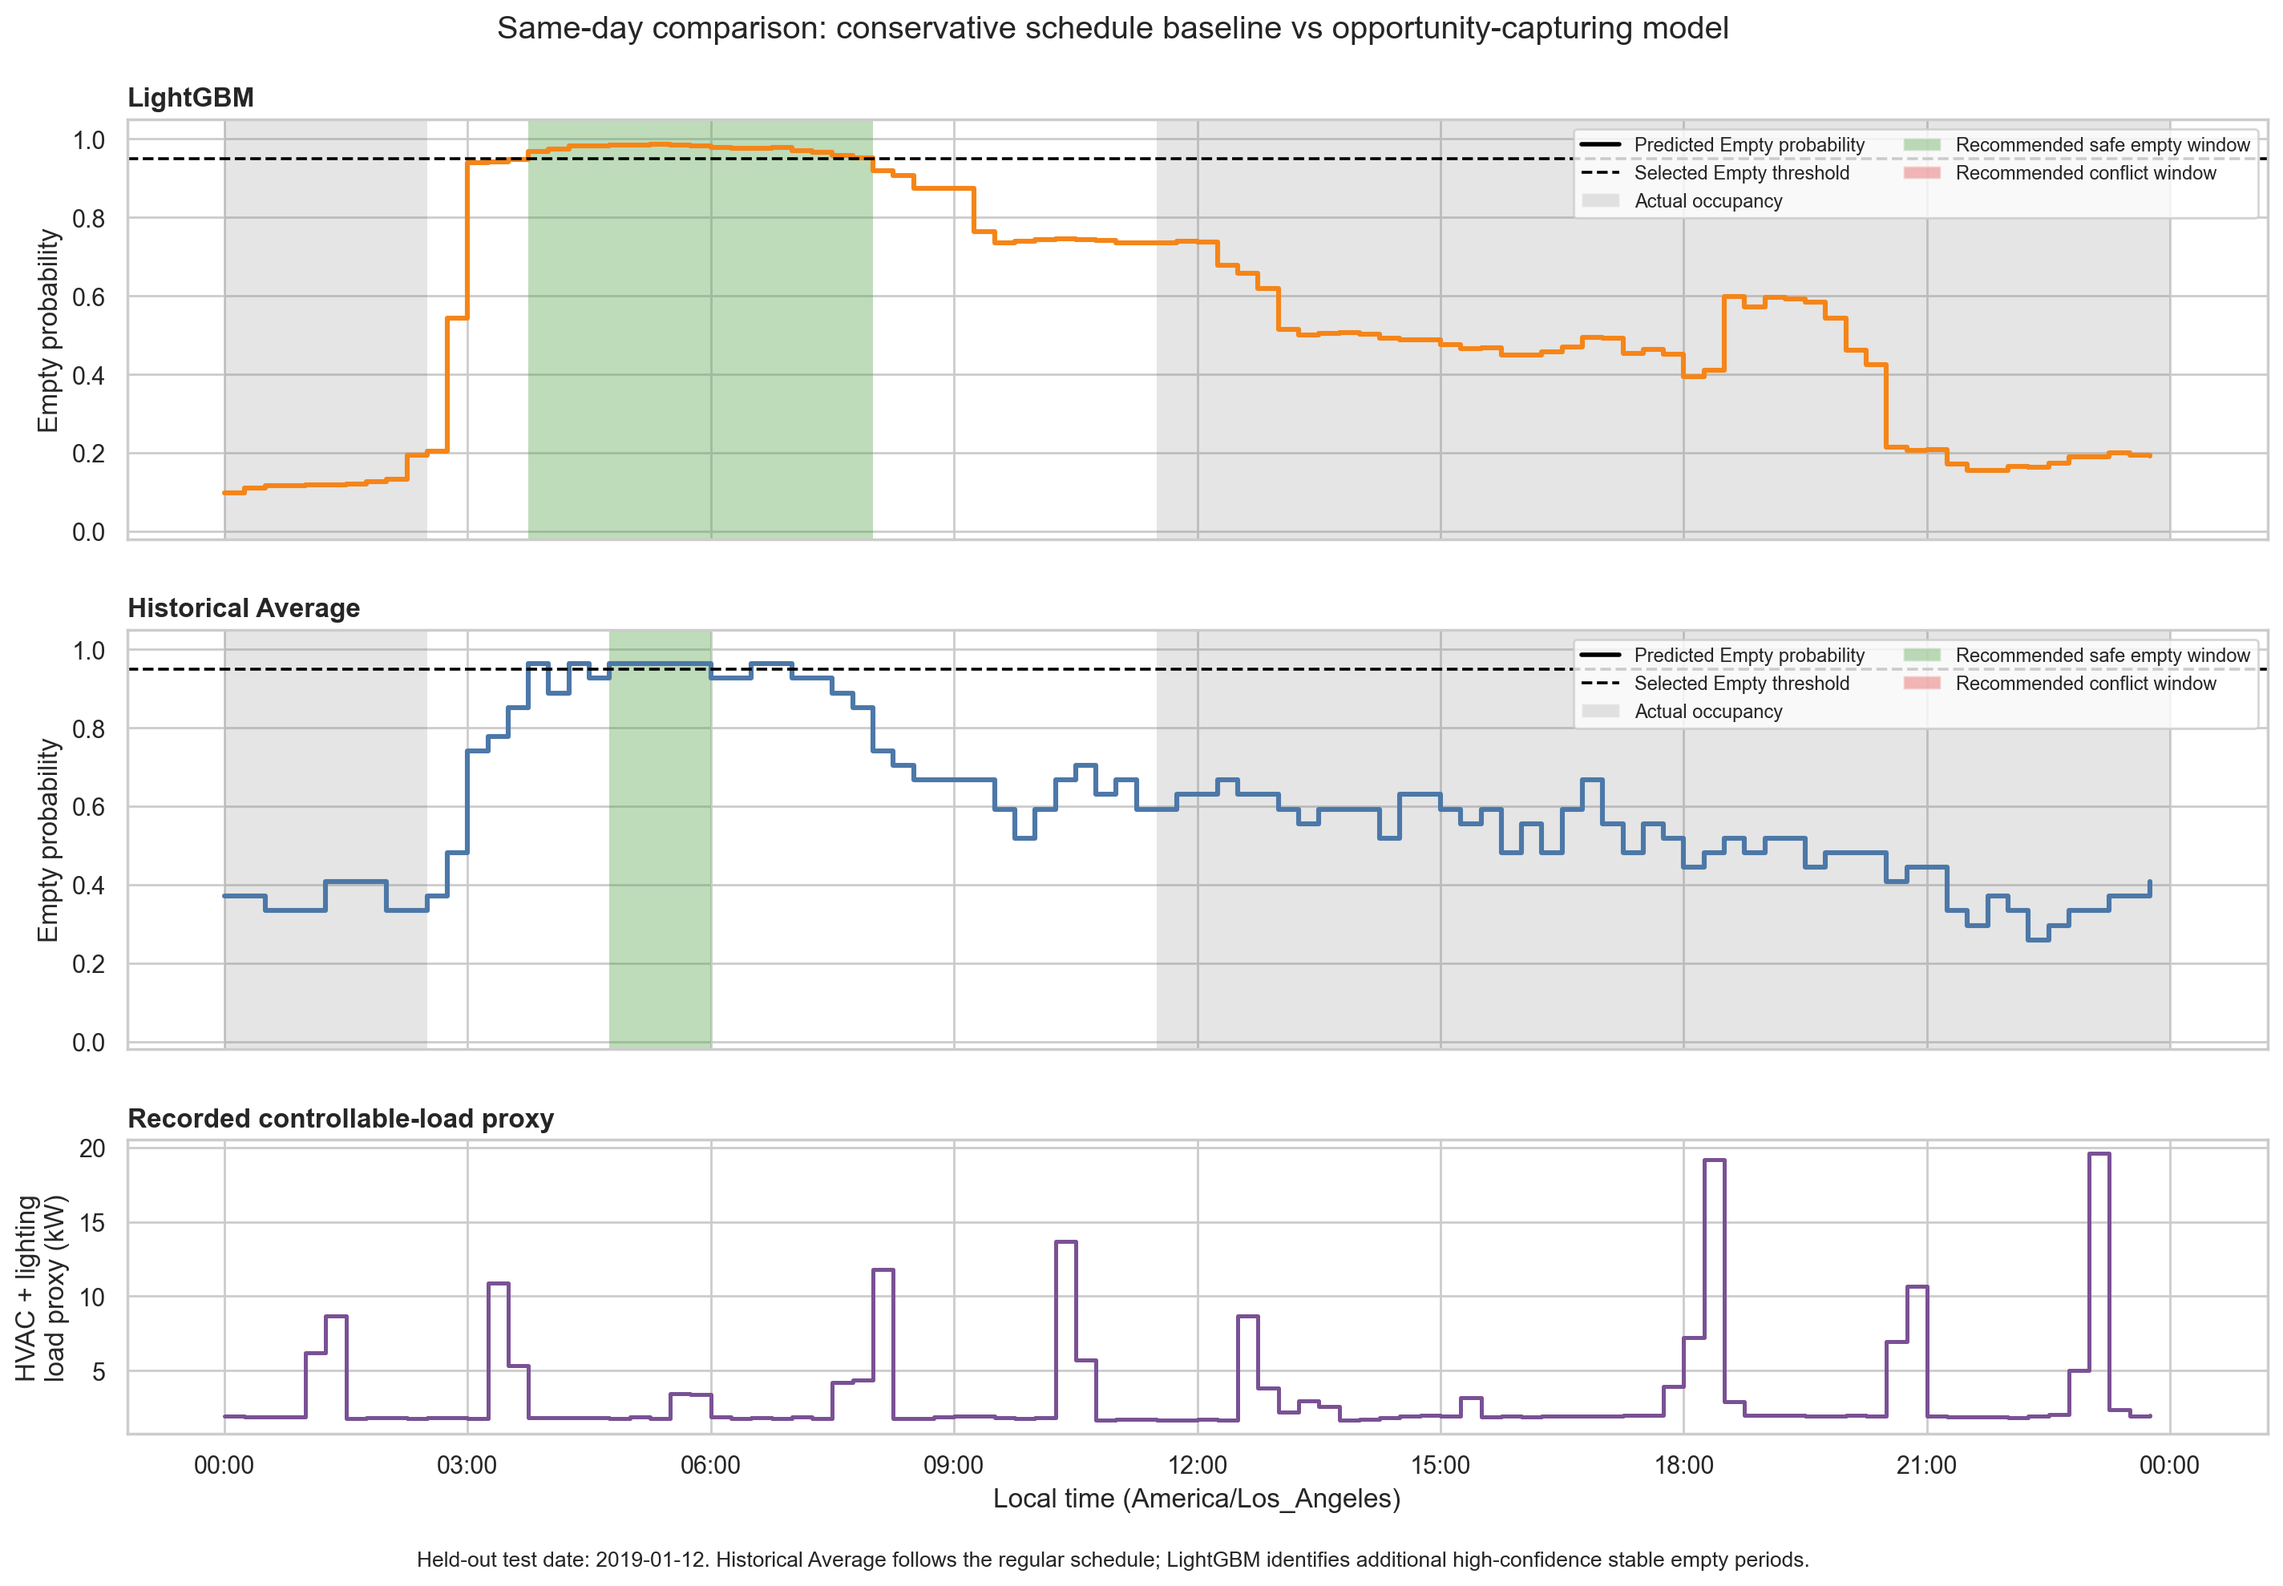
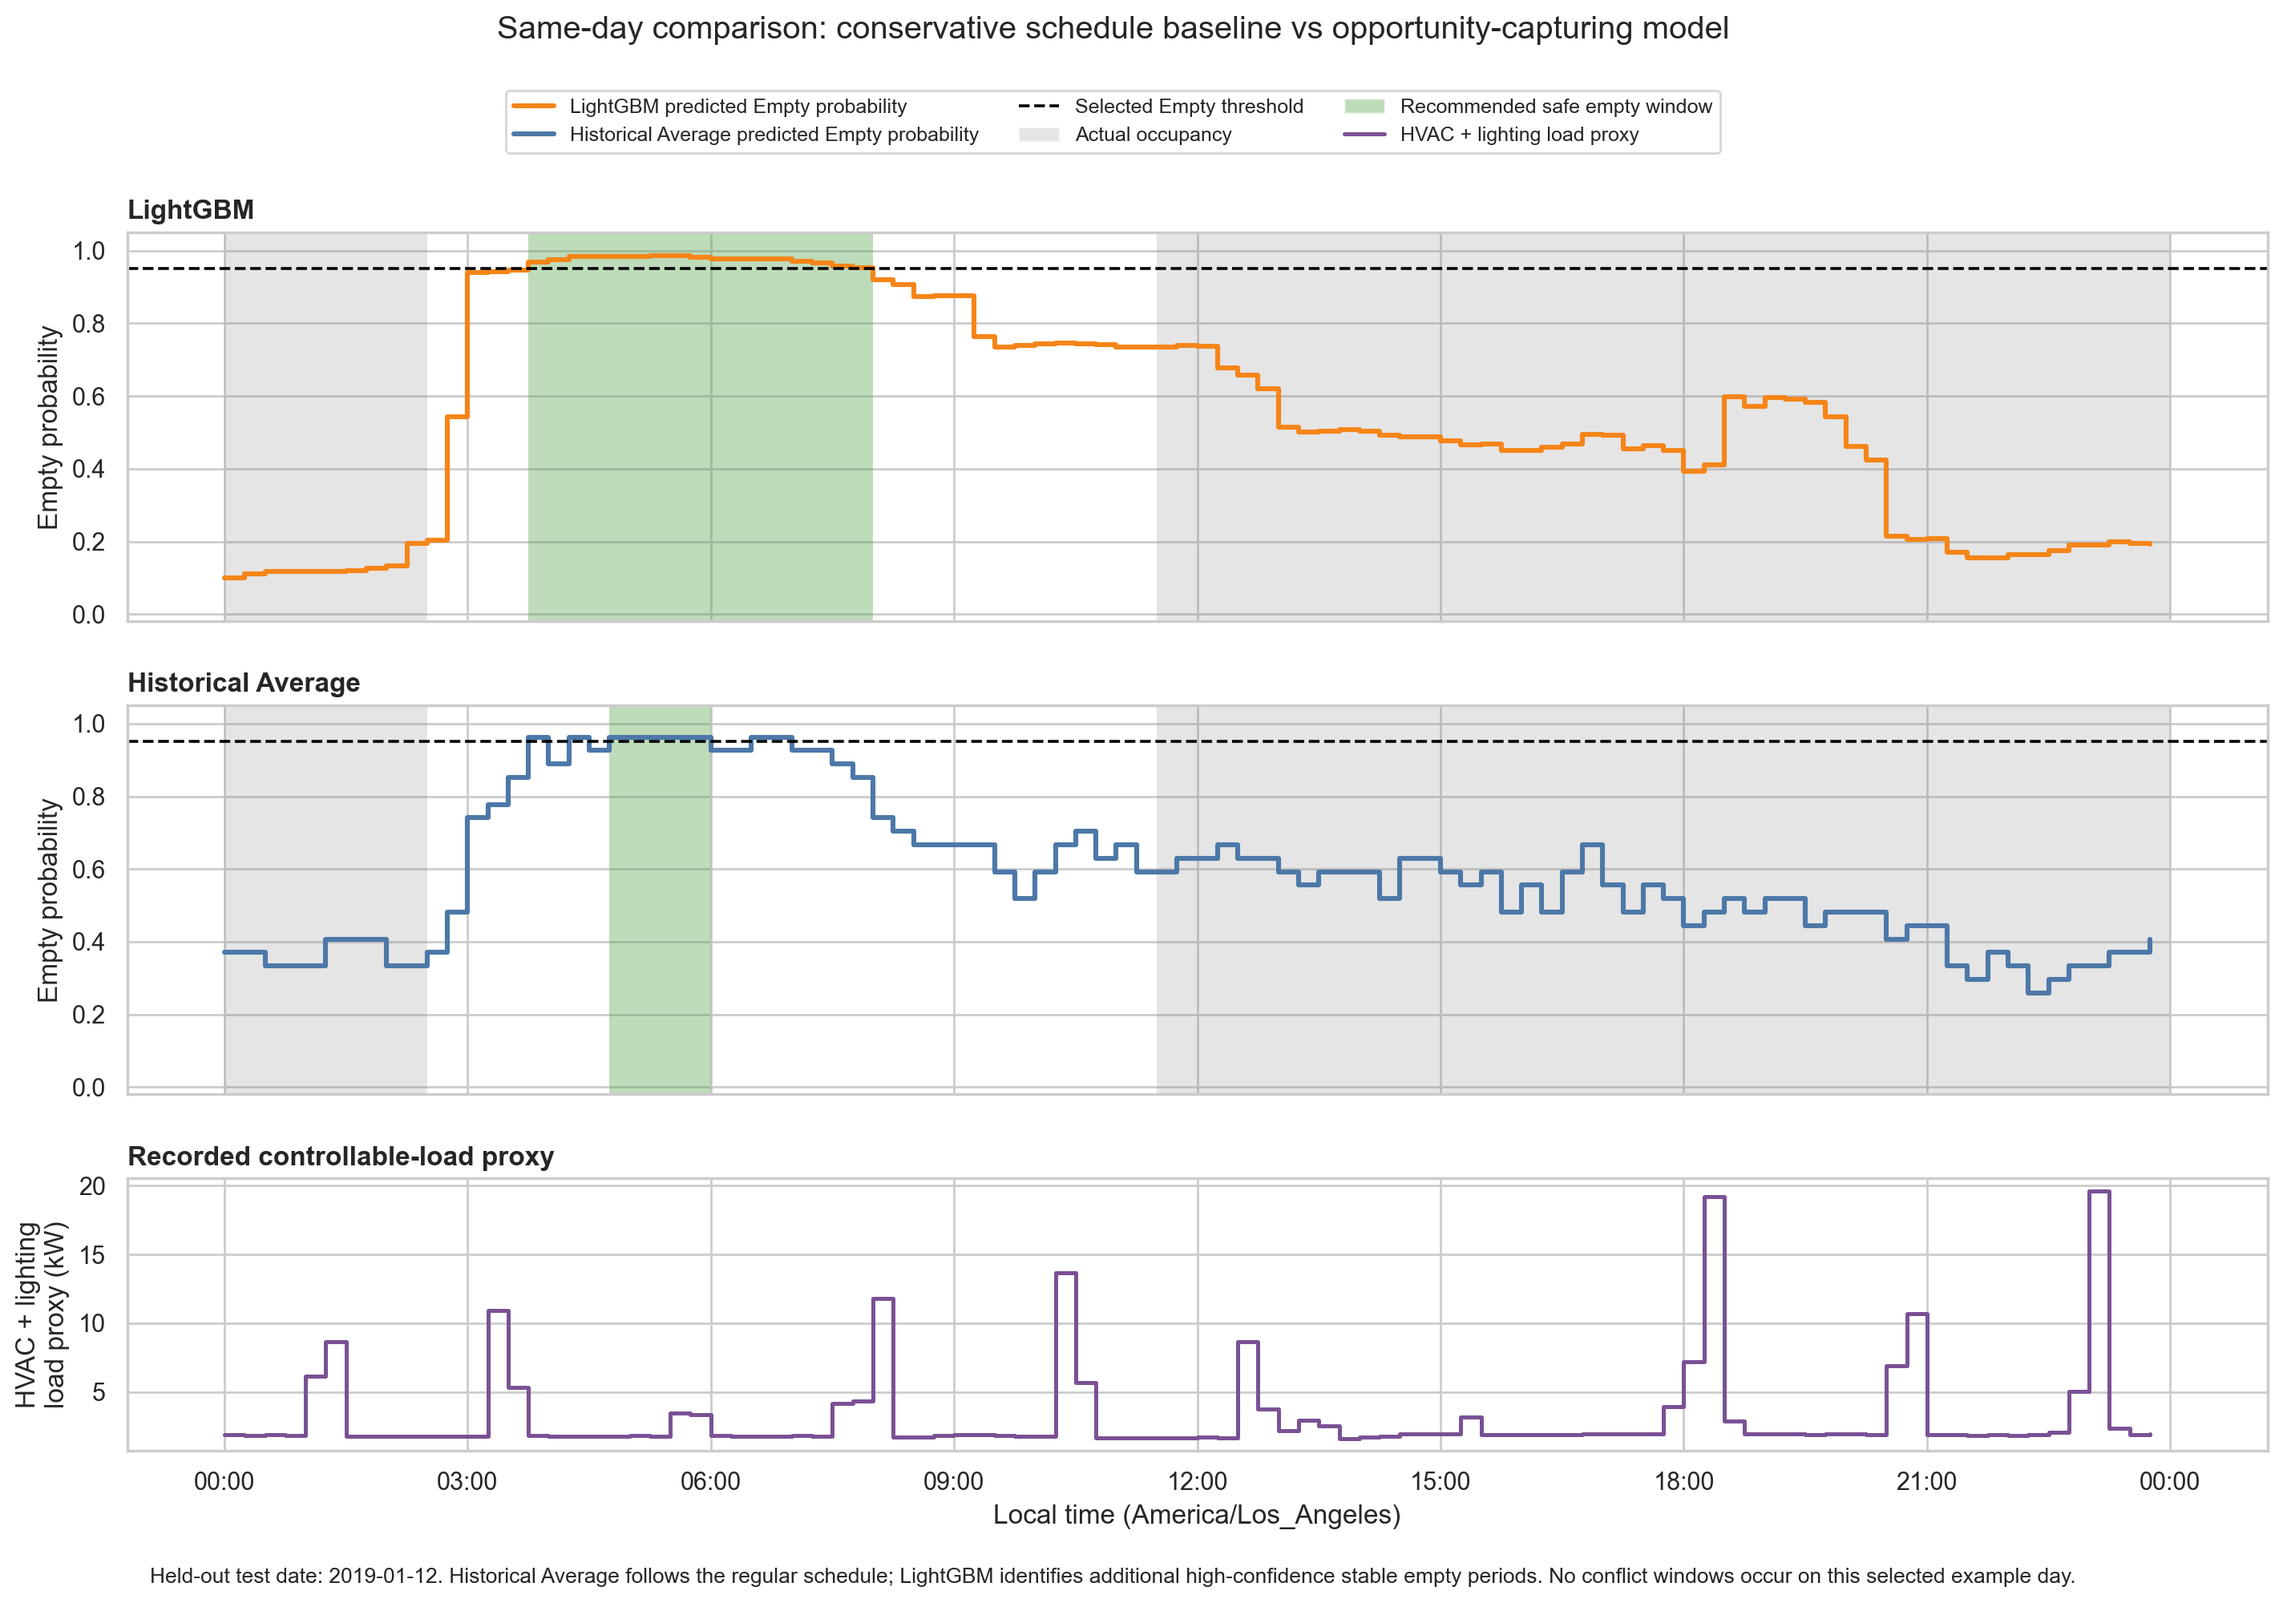
figure fix

diff --git a/scripts/generate_presentation_figures.py b/scripts/generate_presentation_figures.py
@@ -336,7 +336,11 @@ def generate_example_day_figure() -> tuple[Path, dict[str, object]]:
     return EXAMPLE_FIGURE_PATH, metrics
 
 
-def generate_same_day_comparison(predictions: pd.DataFrame) -> tuple[Path, Path, str, str, bool]:
+def generate_same_day_comparison(
+    predictions: pd.DataFrame,
+    *,
+    write_summary: bool = True,
+) -> tuple[Path, Path, str, str, bool]:
     """Compare saved LightGBM and Historical Average forecasts on one test day."""
     selected = _read_csv(RESULTS_DIR / "selected_threshold_policies.csv")
     selected_10 = selected[np.isclose(pd.to_numeric(selected["risk_delta"]), 0.10)].copy()
@@ -477,7 +481,20 @@ def generate_same_day_comparison(predictions: pd.DataFrame) -> tuple[Path, Path,
     )
     axes = np.atleast_1d(axes)
     legend_handles = [
-        Line2D([0], [0], color="black", linewidth=2, label="Predicted Empty probability"),
+        Line2D(
+            [0],
+            [0],
+            color=MODEL_COLORS["LightGBM"],
+            linewidth=2.2,
+            label="LightGBM predicted Empty probability",
+        ),
+        Line2D(
+            [0],
+            [0],
+            color=MODEL_COLORS["Historical Average"],
+            linewidth=2.2,
+            label="Historical Average predicted Empty probability",
+        ),
         Line2D(
             [0],
             [0],
@@ -488,8 +505,21 @@ def generate_same_day_comparison(predictions: pd.DataFrame) -> tuple[Path, Path,
         ),
         Patch(facecolor="gray", alpha=0.20, label="Actual occupancy"),
         Patch(facecolor="#54A24B", alpha=0.38, label="Recommended safe empty window"),
-        Patch(facecolor="#E45756", alpha=0.42, label="Recommended conflict window"),
     ]
+    if load_available:
+        legend_handles.append(
+            Line2D(
+                [0],
+                [0],
+                color="#7A5195",
+                linewidth=1.8,
+                label="HVAC + lighting load proxy",
+            )
+        )
+    if any(masks["conflict"].any() for masks in model_masks.values()):
+        legend_handles.append(
+            Patch(facecolor="#E45756", alpha=0.42, label="Recommended conflict window")
+        )
 
     for ax, (model, probability_column, color) in zip(axes[:2], model_specs):
         masks = model_masks[model]
@@ -528,7 +558,6 @@ def generate_same_day_comparison(predictions: pd.DataFrame) -> tuple[Path, Path,
         ax.set_ylim(-0.02, 1.05)
         ax.set_ylabel("Empty probability")
         ax.set_title(model, loc="left", fontweight="bold")
-        ax.legend(handles=legend_handles, loc="upper right", fontsize=8.5, ncol=2)
 
     if load_available:
         load_kw = chosen["controllable_load_kw"].to_numpy(dtype=float)
@@ -540,26 +569,36 @@ def generate_same_day_comparison(predictions: pd.DataFrame) -> tuple[Path, Path,
     axes[-1].xaxis.set_major_formatter(mdates.DateFormatter("%H:%M", tz=times.dt.tz))
     fig.suptitle(
         "Same-day comparison: conservative schedule baseline vs opportunity-capturing model",
-        y=0.985,
+        y=0.995,
+    )
+    fig.legend(
+        handles=legend_handles,
+        loc="upper center",
+        bbox_to_anchor=(0.5, 0.955),
+        fontsize=9,
+        ncol=3,
+        frameon=True,
     )
     fig.text(
         0.5,
         0.015,
         (
             f"Held-out test date: {chosen_date}. Historical Average follows the regular schedule; "
-            "LightGBM identifies additional high-confidence stable empty periods."
+            "LightGBM identifies additional high-confidence stable empty periods. "
+            "No conflict windows occur on this selected example day."
         ),
         ha="center",
         va="bottom",
         fontsize=9.5,
     )
-    fig.subplots_adjust(left=0.09, right=0.98, top=0.92, bottom=0.10, hspace=0.24)
+    fig.subplots_adjust(left=0.09, right=0.98, top=0.86, bottom=0.10, hspace=0.24)
     SAME_DAY_FIGURE_PATH.parent.mkdir(parents=True, exist_ok=True)
     fig.savefig(SAME_DAY_FIGURE_PATH, dpi=200, bbox_inches="tight")
     plt.close(fig)
 
     summary = pd.DataFrame(summary_rows)
-    summary.to_csv(SAME_DAY_SUMMARY_PATH, index=False, encoding="utf-8-sig")
+    if write_summary:
+        summary.to_csv(SAME_DAY_SUMMARY_PATH, index=False, encoding="utf-8-sig")
     return SAME_DAY_FIGURE_PATH, SAME_DAY_SUMMARY_PATH, chosen_date, selection_rule, load_available
 
 
